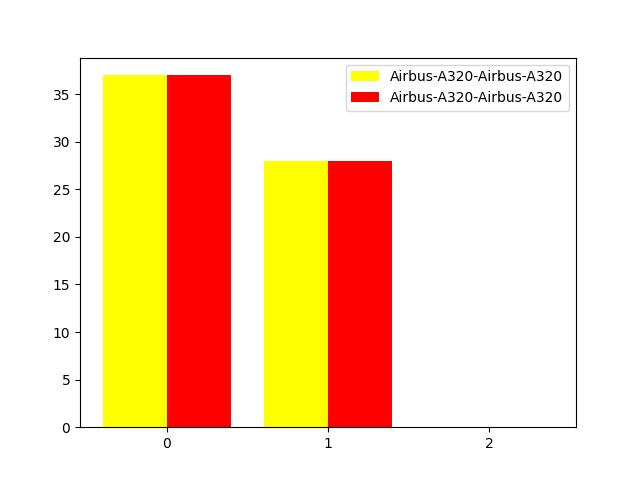
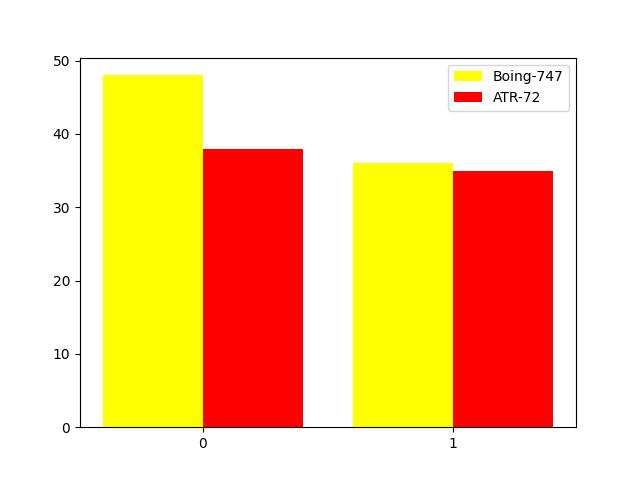
complete second phase

diff --git a/analysis_service/analysis/views.py b/analysis_service/analysis/views.py
@@ -48,6 +48,7 @@ class TrafficAnalysis(APIView):
             plt.xticks(x_axis,bars)
             plt.legend()
             plt.savefig("./media/output.jpg")
+            plt.close()
 
             return HttpResponseRedirect(redirect_to="http://127.0.0.1:8000/media/output.jpg")
         else:
@@ -69,26 +70,27 @@ class CarrierAnalysis(APIView):
         print(A1Data)
         print(A2Data)
 
-        # if(len(A1Data)!=[] and len(A2Data)!=[]):
-        #     bars=[]
-        #     data1 = []
-        #     data2 = []
+        if(len(A1Data)!=[] and len(A2Data)!=[]):
+            bars=[]
+            data1 = []
+            data2 = []
 
-        #     for j in range(len(A1Data)):
-        #         bars.append(j)
-        #         //data1.append(A1Data[j]['total'])
-        #         //data2.append(A2Data[j]['total'])
+            for j in range(len(A1Data)):
+                bars.append(j)
+                data1.append(A1Data[j]['sale'])
+                data2.append(A2Data[j]['sale'])
 
-        #     x_axis = np.arange(len(bars))
-        #     plt.bar(x_axis -0.2, data1, width=0.4, color='yellow', label=carrier_name1)
-        #     plt.bar(x_axis +0.2, data2, width=0.4, color='red', label=carrier_name2)
-        #     plt.xticks(x_axis,bars)
-        #     plt.legend()
-        #     plt.savefig("./media/coutput.jpg")
+            x_axis = np.arange(len(bars))
+            plt.bar(x_axis -0.2, data1, width=0.4, color='yellow', label=carrier_name1)
+            plt.bar(x_axis +0.2, data2, width=0.4, color='red', label=carrier_name2)
+            plt.xticks(x_axis,bars)
+            plt.legend()
+            plt.savefig("./media/coutput.jpg")
+            plt.close()
 
-        #     return HttpResponseRedirect(redirect_to="http://127.0.0.1:8000/media/coutput.jpg")
-        # else:
-        return HttpResponse("No data in this time range!!!")
+            return HttpResponseRedirect(redirect_to="http://127.0.0.1:8000/media/coutput.jpg")
+        else:
+            return HttpResponse("No data in this time range!!!")
 
 class FlightAnalysis(APIView):
     permission_classes = [IsAuthenticated]
@@ -119,6 +121,7 @@ class FlightAnalysis(APIView):
             plt.xticks(x_axis,bars)
             plt.legend()
             plt.savefig("./media/foutput.jpg")
+            plt.close()
 
             return HttpResponseRedirect(redirect_to="http://127.0.0.1:8000/media/foutput.jpg")
         else:

diff --git a/analysis_service/analysis/utils.py b/analysis_service/analysis/utils.py
@@ -56,20 +56,30 @@ def sale(carrier_name: str, date_start: timezone.datetime, date_end: timezone.da
     start_month = timezone.datetime(year=date_start.year, month=date_start.month, day=1)
     end_month = timezone.datetime(year=date_end.year, month=date_end.month, day=1)
 
+
+    test_query()
     while start_month <= end_month:
         data.append({
             'carrier': carrier_name,
-            'total': (PlanesFlight.objects.using('flight_db').filter(
-                            carrier__name=carrier_name,
-                            timestamp__year=start_month.year,
-                            timestamp__month=start_month.month,
-                        )
-                        .aggregate(
-                            total=models.Sum('price', field="price*plane_type.capacity")
-                        )['total']
-            ),
+            # 'total': (PlanesFlight.objects.using('flight_db').filter(
+            #                 carrier__name=carrier_name,
+            #                 timestamp__year=start_month.year,
+            #                 timestamp__month=start_month.month,
+            #             )
+            #             .aggregate(
+            #                 total=models.Sum('price', field="price*plane_type.capacity")
+            #             )['total']
+            # ),
+            'sale': PlanesFlight.objects.using('flight_db').annotate(
+                reserve_count=models.Count('reserves')
+                ).filter(
+                    carrier__name=carrier_name,
+                    timestamp__year=start_month.year,
+                    timestamp__month=start_month.month,
+                ).count(),#.get(pk=4567)
             'date': str(start_month)
         })
+
         start_month = start_month + relativedelta(months=1)
     return data
 
@@ -100,6 +110,6 @@ def test_query():
     q = PlanesFlight.objects.using('flight_db').annotate(
         reserve_count=models.Count('reserves')
     ).all()
-    f = q.get(pk=4567)
+    f = q.get(pk=1087)
     print(f.reserve_count)
     print(q)

diff --git a/README.md b/README.md
@@ -1,1 +1,4 @@
 # CloudProject
+
+Yousef Salmalian-FarnazKamranfar(4001327062)
+RepoLink: https://github.com/Farnaz-1999/CloudProject/
